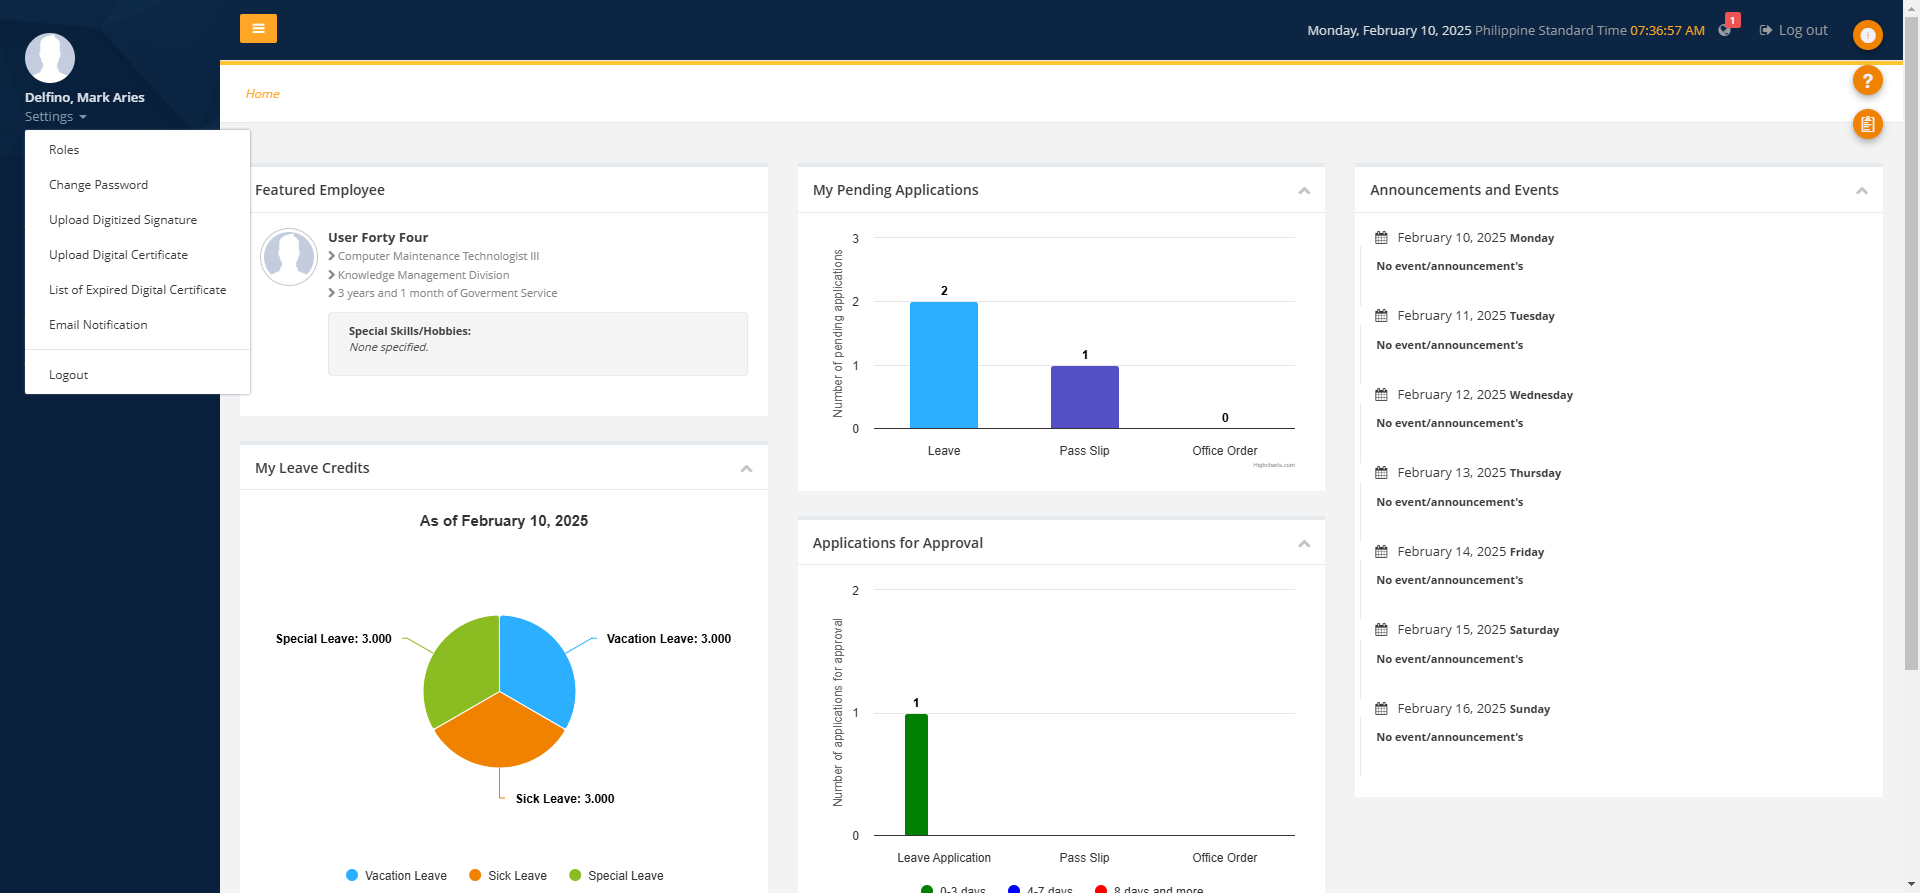
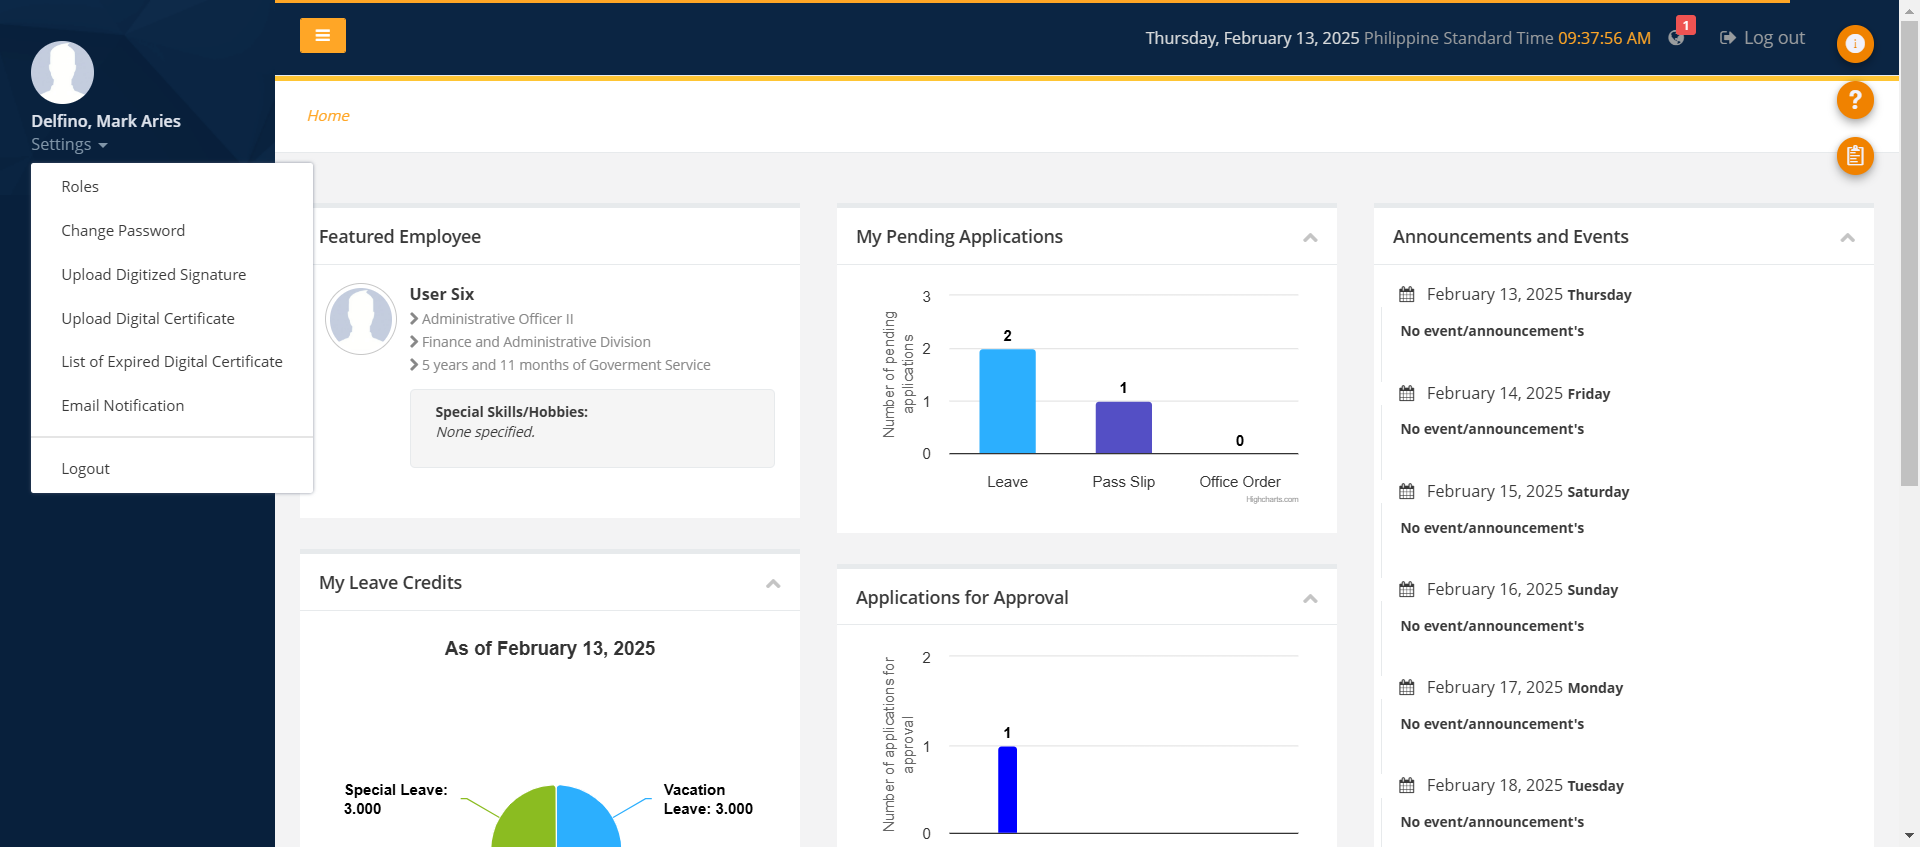
test

diff --git a/log.html b/log.html
@@ -2071,25 +2071,25 @@ storage = function () {
 window.output = {};
 </script>
 <script type="text/javascript">
-window.output["suite"] = [1,2,3,0,[],[1,0,19764],[],[[4,0,5,[],[1,1223,18542],[[1,6,7,0,0,0,0,0,[1,1223,11515],[[0,8,9,0,10,11,0,0,[1,1223,11469],[[1223,2,12]]],[0,13,9,0,14,0,0,0,[1,12693,43],[]],[0,15,9,0,16,17,0,0,[1,12737,1],[]]]],[0,18,9,0,19,20,0,0,[1,12739,49],[]],[0,21,9,0,22,23,0,0,[1,12789,127],[[12789,2,24]]],[0,25,9,0,26,27,0,0,[1,12916,130],[[12917,2,28],[12966,2,29]]],[0,30,9,0,31,32,33,0,[1,13047,258],[[13304,2,34],[13304,2,35]]],[0,36,37,0,0,38,0,0,[1,13306,3],[]],[0,39,9,0,40,41,0,0,[1,13311,2382],[[13316,2,42]]],[0,43,9,0,44,45,0,0,[1,15693,138],[[15695,2,46]]],[0,39,9,0,40,47,0,0,[1,15831,198],[[15831,2,48]]],[0,18,9,0,19,49,0,0,[1,16028,33],[]],[2,50,9,0,51,0,0,0,[1,16065,3700],[]]]]],[],[1,1,0,0]];
+window.output["suite"] = [1,2,3,0,[],[1,0,16766],[],[[4,0,5,[],[1,1678,15086],[[1,6,7,0,0,0,0,0,[1,1678,8976],[[0,8,9,0,10,11,0,0,[1,1678,8938],[[1678,2,12]]],[0,13,9,0,14,0,0,0,[1,10617,35],[]],[0,15,9,0,16,17,0,0,[1,10652,2],[]]]],[0,18,7,0,0,0,0,0,[1,10656,2304],[[0,19,9,0,20,21,0,0,[1,10657,52],[]],[0,22,9,0,23,24,0,0,[1,10709,134],[[10710,2,25]]],[0,26,9,0,27,28,0,0,[1,10844,113],[[10845,2,29],[10914,2,30]]],[0,31,9,0,32,33,0,0,[1,10959,1790],[[10959,2,34]]],[0,35,9,0,36,37,0,0,[1,12749,83],[[12749,2,38]]],[0,31,9,0,32,39,0,0,[1,12832,110],[[12832,2,40]]],[0,19,9,0,20,41,0,0,[1,12941,19],[]]]],[0,35,9,0,36,42,0,0,[1,12960,78],[[12960,2,43]]],[0,19,9,0,20,44,0,0,[1,13038,41],[]],[0,35,9,0,36,44,0,0,[1,13079,324],[[13089,2,45]]],[2,46,9,0,47,0,0,0,[1,13404,3358],[]]]]],[],[1,1,0,0]];
 </script>
 <script type="text/javascript">
 window.output["strings"] = [];
 </script>
 <script type="text/javascript">
[2 lines of base64/hex data omitted]
 </script>
 <script type="text/javascript">
-window.output["stats"] = [[{"elapsed":"00:00:19","fail":0,"label":"All Tests","pass":1,"skip":0}],[],[{"elapsed":"00:00:20","fail":0,"id":"s1","label":"HRLITE LOGIN CHROME","name":"HRLITE LOGIN CHROME","pass":1,"skip":0}]];
+window.output["stats"] = [[{"elapsed":"00:00:15","fail":0,"label":"All Tests","pass":1,"skip":0}],[],[{"elapsed":"00:00:17","fail":0,"id":"s1","label":"Settings","name":"Settings","pass":1,"skip":0}]];
 </script>
 <script type="text/javascript">
 window.output["errors"] = [];
 </script>
 <script type="text/javascript">
-window.output["baseMillis"] = 1739320506818;
+window.output["baseMillis"] = 1739410828482;
 </script>
 <script type="text/javascript">
-window.output["generated"] = 19796;
+window.output["generated"] = 16777;
 </script>
 <script type="text/javascript">
 window.output["expand_keywords"] = null;

diff --git a/report.html b/report.html
@@ -1887,22 +1887,22 @@ storage = function () {
 window.output = {};
 </script>
 <script type="text/javascript">
-window.output["suite"] = [1,2,3,0,[],[1,0,19764],[],[[4,0,5,[],[1,1223,18542],[]]],[],[1,1,0,0]];
+window.output["suite"] = [1,2,3,0,[],[1,0,16766],[],[[4,0,5,[],[1,1678,15086],[]]],[],[1,1,0,0]];
 </script>
 <script type="text/javascript">
 window.output["strings"] = [];
 </script>
 <script type="text/javascript">
[2 lines of base64/hex data omitted]
 </script>
 <script type="text/javascript">
-window.output["stats"] = [[{"elapsed":"00:00:19","fail":0,"label":"All Tests","pass":1,"skip":0}],[],[{"elapsed":"00:00:20","fail":0,"id":"s1","label":"HRLITE LOGIN CHROME","name":"HRLITE LOGIN CHROME","pass":1,"skip":0}]];
+window.output["stats"] = [[{"elapsed":"00:00:15","fail":0,"label":"All Tests","pass":1,"skip":0}],[],[{"elapsed":"00:00:17","fail":0,"id":"s1","label":"Settings","name":"Settings","pass":1,"skip":0}]];
 </script>
 <script type="text/javascript">
-window.output["baseMillis"] = 1739320506818;
+window.output["baseMillis"] = 1739410828482;
 </script>
 <script type="text/javascript">
-window.output["generated"] = 19796;
+window.output["generated"] = 16777;
 </script>
 <script type="text/javascript">
 window.output["expand_keywords"] = null;
